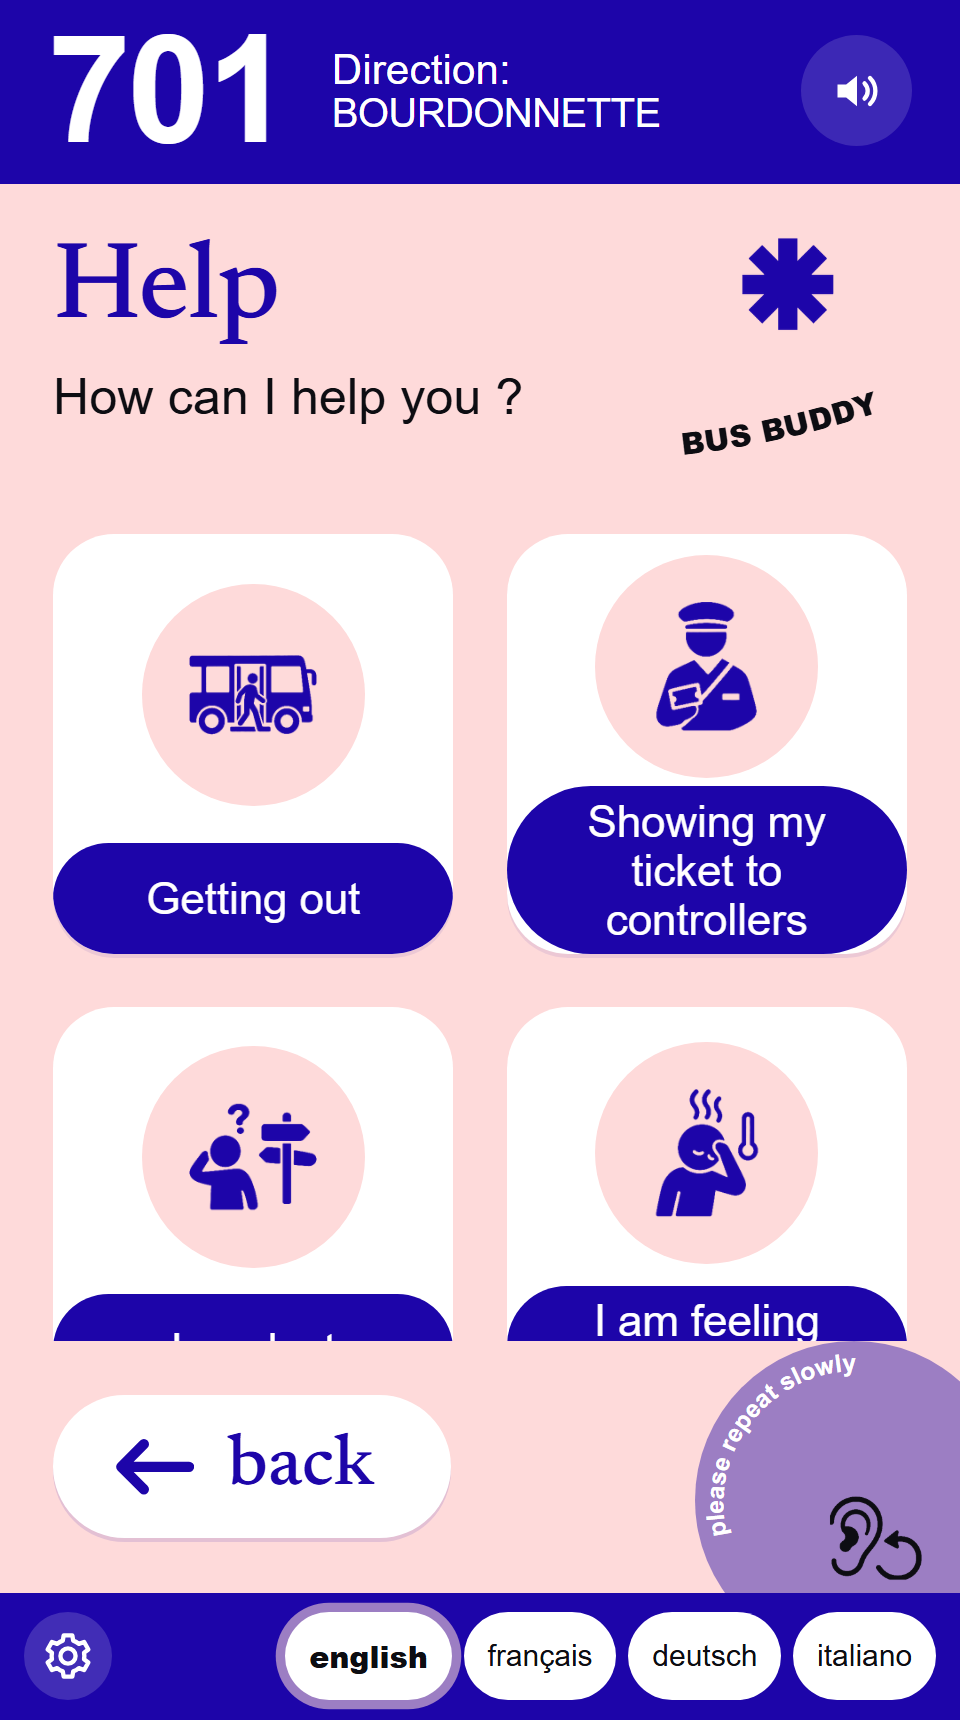
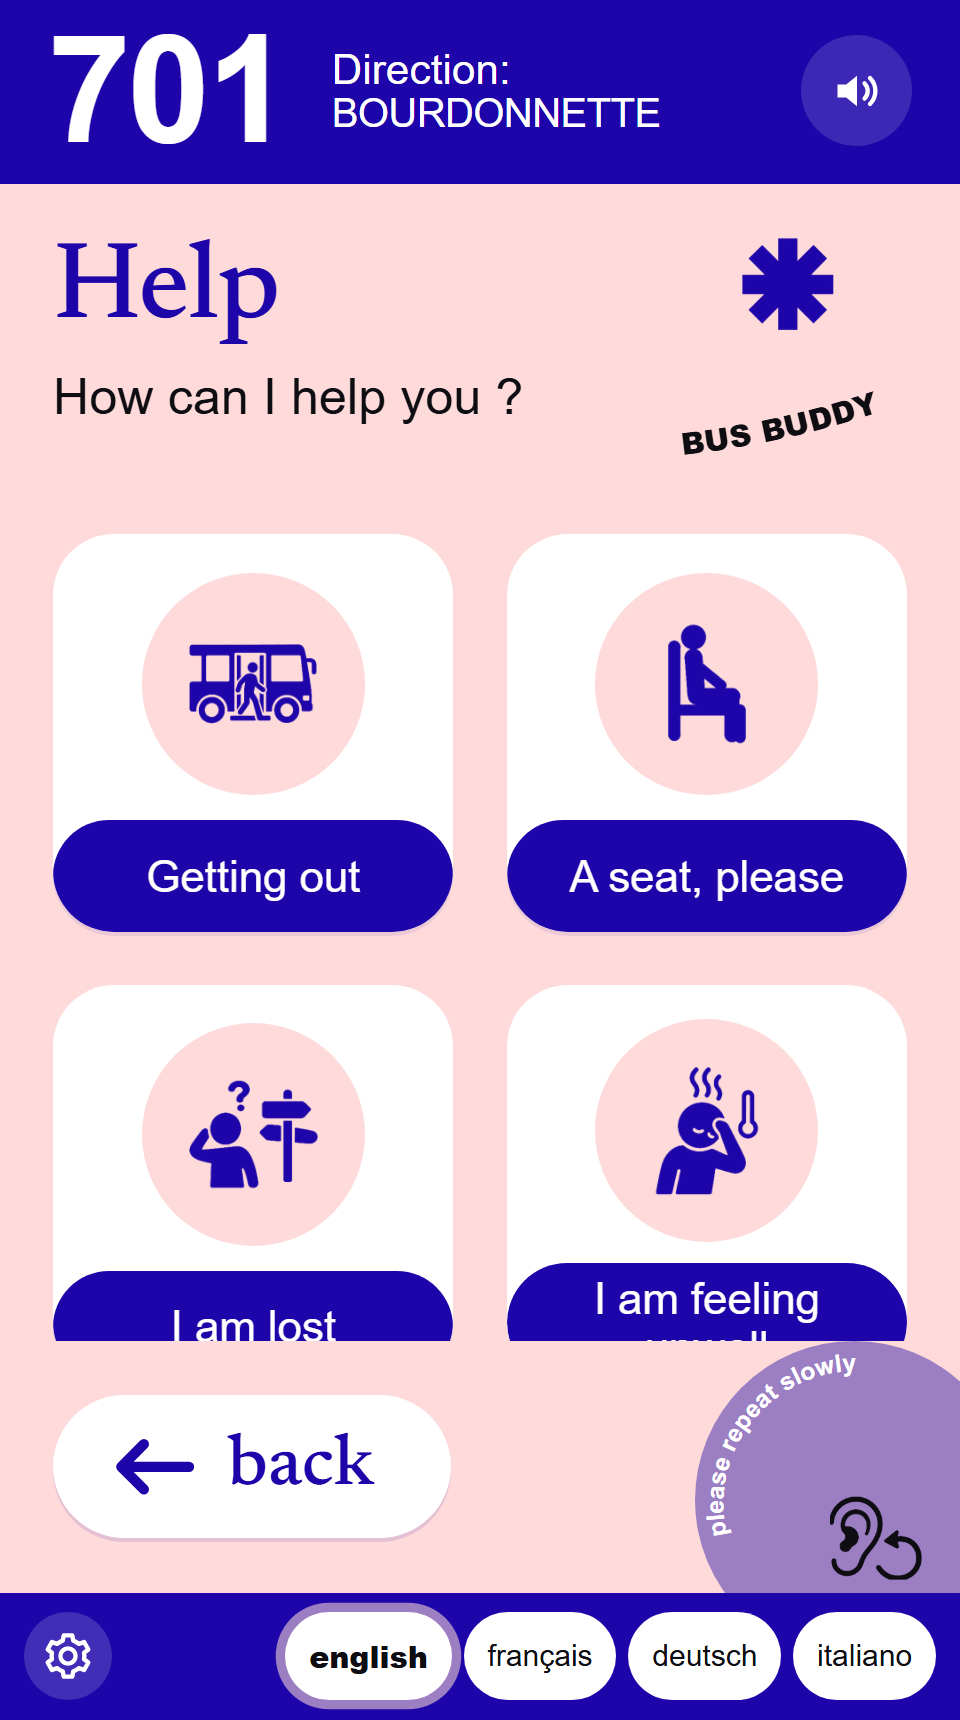
Help: remove 'show my ticket', add 'a seat'; bubble speaks 'repeat slowly' directly

diff --git a/static/js/views.js b/static/js/views.js
@@ -9,7 +9,7 @@ import { stopStrip, stopsLeft, aheadIndexes, tripStatus } from './logic.js';
 // Les trois « moments » en couleurs : vert = tout va bien / j'attends, orange = je me prépare / j'ai besoin d'aide,
 // rouge = j'agis maintenant (descendre, urgence). Toujours doublés d'une icône et d'un texte (pas seulement la couleur).
 const STATUS_TONE = { calm: 'ok', soon: 'warn', now: 'stop' };
-const PHRASE_TONE = { hello: 'ok', repeat: 'ok', seat: 'ok', ticket: 'ok', control: 'ok', lost: 'warn', ramp: 'warn', front_door: 'warn', more_time: 'warn', unwell: 'stop' };
+const PHRASE_TONE = { hello: 'ok', repeat: 'ok', seat: 'ok', ticket: 'ok', lost: 'warn', ramp: 'warn', front_door: 'warn', more_time: 'warn', unwell: 'stop' };
 
 const statusOf = (c) => tripStatus({ next: c.pos.next, atStop: c.pos.atStop, dest: c.destIndex });
 const toneOf = (c) => STATUS_TONE[statusOf(c)] ?? '';
@@ -94,7 +94,8 @@ function header(c) {
 }
 
 function bubble(c) {
-  return `<button class="bubble" type="button" data-say="${esc(c.t('comm.title'))}" data-nav='${json({ view: 'comm' })}'
+  // Un seul toucher : la bulle dit « répétez doucement » et ouvre directement la carte (plus de choix intermédiaire)
+  return `<button class="bubble" type="button" data-say="${esc(c.t('phrase.repeat'))}" data-nav='${json({ view: 'card', params: { phrase: 'repeat', icon: 'repeat' } })}'
       aria-label="${esc(c.t('home.repeat'))}">
     <svg viewBox="0 0 200 200" aria-hidden="true"><defs><path id="bb-bub" d="M20,122 A84,84 0 0 1 150,34"/></defs>
       <text><textPath href="#bb-bub">${esc(c.t('home.repeat'))}</textPath></text></svg>
@@ -216,7 +217,7 @@ const views = {
   help(c) {
     const tiles = [
       tile({ icon: 'getting_out', label: c.t('help.out'), nav: { view: 'out' } }),
-      tile({ icon: 'controller', label: c.t('help.control'), say: c.t('phrase.control'), nav: { view: 'card', params: { phrase: 'control', icon: 'controller' } } }),
+      tile({ icon: 'seat', label: c.t('help.seat'), say: c.t('phrase.seat'), nav: { view: 'card', params: { phrase: 'seat', icon: 'seat' } } }),
       tile({ icon: 'lost', label: c.t('help.lost'), say: c.t('phrase.lost'), nav: { view: 'card', params: { phrase: 'lost', icon: 'lost' } } }),
       tile({ icon: 'unwell', label: c.t('help.unwell'), say: c.t('phrase.unwell'), nav: { view: 'card', params: { phrase: 'unwell', icon: 'unwell' } } }),
     ].join('');
@@ -231,14 +232,6 @@ const views = {
       tile({ icon: 'bell', label: c.t('out.remind'), nav: { view: 'picker', params: { need: 'remind' } } }),
     ].join('');
     return page(c, `${heading(c.t('out.title'), c.t('out.sub'))}<div class="grid">${tiles}</div>`);
-  },
-
-  comm(c) {
-    const tiles = [
-      tile({ icon: 'repeat', label: c.t('comm.repeat'), say: c.t('phrase.repeat'), nav: { view: 'card', params: { phrase: 'repeat', icon: 'repeat' } } }),
-      tile({ icon: 'seat', label: c.t('comm.seat'), say: c.t('phrase.seat'), nav: { view: 'card', params: { phrase: 'seat', icon: 'seat' } } }),
-    ].join('');
-    return page(c, `${heading(c.t('comm.title'), c.t('comm.sub'))}<div class="grid">${tiles}</div>`, { withBubble: false });
   },
 
   /** Choix de l'arrêt : un seul arrêt à la fois, les voisins en transparence. */

diff --git a/static/js/demo.js b/static/js/demo.js
@@ -110,8 +110,10 @@ export function createDemo({ speed, loop, api }) {
 
     // 4. communiquer avec les personnes autour
     await say('demo.c.repeat', 1500);
-    await tap('.bubble');
-    await tap('[data-nav*="repeat"]', { after: 2200 });
+    await tap('.bubble', { after: 2200 }); // un seul toucher : la carte « répétez doucement » s'affiche et se dit
+    await backToHome();
+    await tap('[data-nav*="help"]');
+    await tap('[data-nav*="seat"]', { after: 2200 }); // une place assise : dans l'aide
     await backToHome();
 
     // 5. mon arrêt : vert, orange (préparez-vous), rouge (descendez) avec vibrations

diff --git a/README.md b/README.md
@@ -36,7 +36,7 @@ prendre le bus **sans avoir à parler ni à écrire**, et sans jamais déranger 
 | 🎨 **Des couleurs qui disent l'essentiel** | 🟢 tout va bien · 🟠 je me prépare ou j'ai besoin d'aide · 🔴 j'agis maintenant. Jamais la couleur seule : toujours une icône et un texte. |
 | 📳 **Des vibrations pour les moments importants** | Le téléphone vibre quand mon arrêt approche, et fort quand il faut descendre. |
 | 🙋 **Très peu de choix** | Dire bonjour, vérifier le bus, acheter un billet, demander de l'aide. Rien de plus. |
-| 🗣 **Se faire comprendre sans parler** | De grandes cartes, dites à voix haute **pour les personnes autour** : « J'ai besoin d'une rampe », « Répétez doucement, s'il vous plaît », « Une place assise ». |
+| 🗣 **Se faire comprendre sans parler** | De grandes cartes, dites à voix haute **pour les personnes autour** : « J'ai besoin d'une rampe », « Répétez doucement, s'il vous plaît » (un seul toucher sur la bulle), « Une place assise » (dans l'aide). |
 | 🔒 **Tout reste sur le téléphone** | Aucune communication avec le conducteur, aucun compte, rien n'est envoyé au serveur. |
 | 🌍 **4 langues** | 🇬🇧 English · 🇫🇷 Français · 🇩🇪 Deutsch · 🇮🇹 Italiano, changeables à tout moment. |
 
@@ -97,7 +97,7 @@ Il y a donc **deux entrées de ligne** (un QR code par sens) : `701` (→ Bourdo
   <tr>
     <td align="center"><img src="docs/screenshots/04-answer-yes.png" width="190"><br><b>🟢 Oui, ce bus y va</b><br><sub>vert = tout va bien</sub></td>
     <td align="center"><img src="docs/screenshots/05-answer-no.png" width="190"><br><b>🔴 Non, ce n'est pas le bon bus</b><br><sub>rouge = j'agis</sub></td>
-    <td align="center"><img src="docs/screenshots/06-help.png" width="190"><br><b>🙋 Aide</b><br><sub>descendre, billet, perdu(e), malaise</sub></td>
+    <td align="center"><img src="docs/screenshots/06-help.png" width="190"><br><b>🙋 Aide</b><br><sub>descendre, place assise, perdu(e), malaise</sub></td>
   </tr>
   <tr>
     <td align="center"><img src="docs/screenshots/07-ramp-card.png" width="190"><br><b>🟠 « J'ai besoin d'une rampe »</b><br><sub>carte à montrer, dite à voix haute</sub></td>
@@ -121,9 +121,9 @@ Il y a donc **deux entrées de ligne** (un QR code par sens) : `701` (→ Bourdo
 2. 👋 **Accueil** : *Dire bonjour*, *Vérifier la destination du bus*, *Acheter un billet*, *Aide*.
 3. 👆 Un toucher sur une tuile **la dit à voix haute** puis ouvre la catégorie. Les arrêts se choisissent dans un carrousel
    horizontal (un arrêt à la fois, voisins en transparence ; le nom est dit quand il arrive au centre).
-4. 🙋 **Aide** : *Descendre* (rampe, porte avant, plus de temps, **me rappeler mon arrêt**), *Montrer mon billet aux contrôleurs*,
+4. 🙋 **Aide** : *Descendre* (rampe, porte avant, plus de temps, **me rappeler mon arrêt**), *Une place assise*,
    *Je suis perdu(e)*, *Je ne me sens pas bien*. Ces demandes s'affichent en grand et se disent **pour les personnes autour**.
-5. 💬 **Bulle « Répétez doucement »** (en bas à droite) : *Répétez doucement* / *Une place assise*.
+5. 💬 **Bulle « Répétez doucement »** (en bas à droite) : un seul toucher, la phrase est dite et s'affiche directement en grand.
 6. 📍 **Mon arrêt** : pictogramme (ou photo), nombre d'arrêts restants, frise avec « ··· » (au plus 4 repères affichés) ; alarme plein écran
    (« Préparez-vous » puis « C'est votre arrêt ») avec voix, vibration et écran maintenu allumé.
 7. ⬅ **Retour** partout (le bouton retour du téléphone fonctionne aussi). En bas : **⚙ Réglages** puis les langues.
@@ -137,7 +137,7 @@ Un écran de départ demande un toucher (nécessaire pour que le navigateur auto
 « touche » elle-même les vrais boutons, avec une mise en évidence jaune et un bandeau noir qui explique ce qui est montré :
 
 🔳 choix de la ligne → 👆 tout parle au toucher → 🟢🔴 bon / mauvais bus → 🟠 aide pour descendre → 🔴 urgence →
-💬 « répétez doucement » → 📍 rappel de mon arrêt avec alarmes 🟠 puis 🔴 et vibrations → ⚙ réglages → 🌍 changement de langue.
+💬 « répétez doucement » + place assise → 📍 rappel de mon arrêt avec alarmes 🟠 puis 🔴 et vibrations → ⚙ réglages → 🌍 changement de langue.
 
 La démo se joue sur la **ligne par défaut (701)**. La croix du bandeau l'arrête à tout moment.
 
